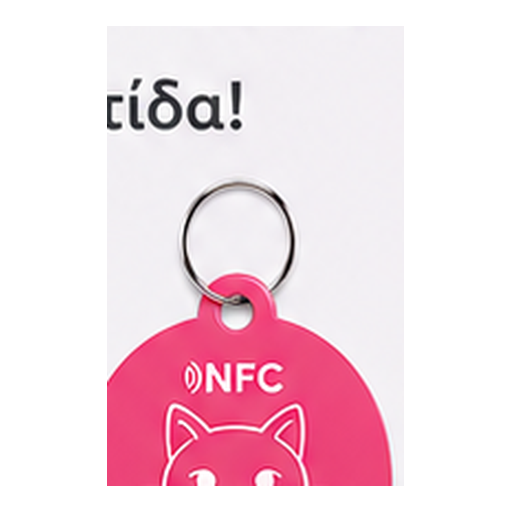
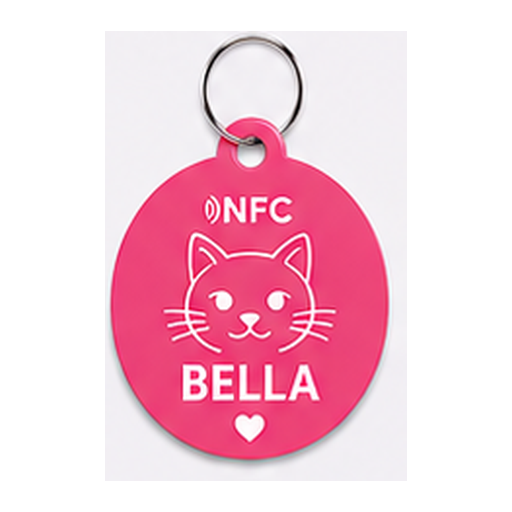
Fix NFC catalog crop alignment for all 21 tags
Replace hand-tuned crop boxes with auto-detection that finds inter-row
number labels and derives column centers plus row bands from them.
This excludes the Greek header, numbered circles, and footer while
keeping each tag's ring, design, and name fully visible.

Changed region(s): [[0.1875, 0.0625, 0.7812, 0.9688]]

diff --git a/marketing/nfc-crops/crop-nfc-catalog.py b/marketing/nfc-crops/crop-nfc-catalog.py
@@ -1,8 +1,11 @@
 #!/usr/bin/env python3
 """Crop individual NFC tag images from marketing/instagram/NFCFullpic.png."""
 
+from __future__ import annotations
+
 from pathlib import Path
 
+import numpy as np
 from PIL import Image, ImageDraw
 
 ROOT = Path(__file__).resolve().parents[1]
@@ -10,62 +13,163 @@ SRC = ROOT / 'instagram' / 'NFCFullpic.png'
 FINAL_DIR = Path(__file__).resolve().parent / 'final'
 PREVIEW_DIR = Path(__file__).resolve().parent / 'preview'
 
-GRID = {'left': 78, 'top': 248, 'right': 1176, 'bottom': 1055, 'cols': 7, 'rows': 3}
-ROW_PAD = [
-    {'top': 0.06, 'bottom': 0.16, 'x': 0.07},
-    {'top': 0.11, 'bottom': 0.17, 'x': 0.07},
-    {'top': 0.17, 'bottom': 0.14, 'x': 0.06},
-]
 OUT = 512
+BG_RGB = (231, 229, 234)
+COL_HALF_W = 72
+
+
+def _fg_mask(arr: np.ndarray, threshold: float = 18) -> np.ndarray:
+    bg = np.array(BG_RGB, dtype=float)
+    dist = np.sqrt(((arr.astype(float) - bg) ** 2).sum(axis=2))
+    return dist > threshold
+
+
+def _white_runs(row: np.ndarray, min_w: int = 12, max_w: int = 45) -> list[tuple[int, int]]:
+    white = (row[:, 0] > 245) & (row[:, 1] > 245) & (row[:, 2] > 245)
+    runs: list[tuple[int, int]] = []
+    in_run = False
+    start = 0
+    for x, is_white in enumerate(white):
+        if is_white and not in_run:
+            start = x
+            in_run = True
+        elif not is_white and in_run:
+            if min_w <= x - start <= max_w:
+                runs.append((start, x - 1))
+            in_run = False
+    if in_run and min_w <= len(white) - start <= max_w:
+        runs.append((start, len(white) - 1))
+    return runs
+
+
+def _find_number_rows(arr: np.ndarray) -> list[int]:
+    """Return y positions of the three inter-row number label bands."""
+    hits: list[int] = []
+    for y in range(480, 1060, 2):
+        if len(_white_runs(arr[y])) >= 6:
+            hits.append(y)
+
+    if not hits:
+        return [566, 822, 1052]
+
+    # Merge nearby hits into bands separated by large vertical gaps (>40px).
+    bands: list[list[int]] = [[hits[0]]]
+    for y in hits[1:]:
+        if y - bands[-1][-1] <= 40:
+            bands[-1].append(y)
+        else:
+            bands.append([y])
+
+    centers = [band[len(band) // 2] for band in bands[:3]]
+    while len(centers) < 3:
+        centers.append(centers[-1] + 256)
+    return centers[:3]
+
+
+def _column_centers(arr: np.ndarray, number_row_y: int) -> list[int]:
+    runs = _white_runs(arr[number_row_y])
+    if len(runs) >= 7:
+        return [((a + b) // 2) for a, b in runs[:7]]
+
+    w = arr.shape[1]
+    return [int(w * (c + 0.5) / 7) for c in range(7)]
+
+
+def detect_tag_boxes(im: Image.Image) -> dict[int, tuple[int, int, int, int]]:
+    arr = np.array(im.convert('RGB'))
+    w, h = arr.shape[:2]
+    fg = _fg_mask(arr)
+
+    num_rows = _find_number_rows(arr)
+    col_centers = _column_centers(arr, num_rows[0])
+
+    # Vertical bands: ring row → above numbers → below numbers.
+    row_bands = [
+        (338, num_rows[0] - 30),
+        (num_rows[0] + 20, num_rows[1] - 14),
+        (num_rows[1] + 36, num_rows[2] - 27),
+    ]
+
+    boxes: dict[int, tuple[int, int, int, int]] = {}
+    for row_idx, (y0, y1) in enumerate(row_bands):
+        y0 = max(0, y0)
+        y1 = min(h - 1, y1)
+        for col, cx in enumerate(col_centers):
+            x0 = max(0, cx - COL_HALF_W)
+            x1 = min(w, cx + COL_HALF_W)
+            sub_fg = fg[y0:y1, x0:x1]
+            ys, xs = np.where(sub_fg)
+            if len(ys) == 0:
+                continue
+            tag_num = row_idx * 7 + col + 1
+            boxes[tag_num] = (
+                x0 + int(xs.min()),
+                y0 + int(ys.min()),
+                x0 + int(xs.max()),
+                y0 + int(ys.max()),
+            )
+    return boxes
+
+
+def crop_tag(im: Image.Image, box: tuple[int, int, int, int], pad: int = 6) -> Image.Image:
+    left, top, right, bottom = box
+    left = max(0, left - pad)
+    top = max(0, top - pad)
+    right = min(im.width, right + pad)
+    bottom = min(im.height, bottom + pad)
+
+    crop = im.crop((left, top, right, bottom))
+    cw, ch = crop.size
+    side = max(cw, ch)
+    scale = (OUT * 0.88) / side
+    nw, nh = max(1, int(cw * scale)), max(1, int(ch * scale))
+    resized = crop.resize((nw, nh), Image.Resampling.LANCZOS)
+
+    canvas = Image.new('RGBA', (OUT, OUT), (255, 255, 255, 255))
+    if resized.mode == 'RGBA':
+        canvas.paste(resized, ((OUT - nw) // 2, (OUT - nh) // 2), resized)
+    else:
+        canvas.paste(resized, ((OUT - nw) // 2, (OUT - nh) // 2))
+    return canvas
 
 
 def main() -> None:
     im = Image.open(SRC).convert('RGBA')
-    cell_w = (GRID['right'] - GRID['left']) / GRID['cols']
-    cell_h = (GRID['bottom'] - GRID['top']) / GRID['rows']
+    boxes = detect_tag_boxes(im)
+    if len(boxes) != 21:
+        raise SystemExit(f'Expected 21 tag boxes, found {len(boxes)}')
+
     FINAL_DIR.mkdir(parents=True, exist_ok=True)
     PREVIEW_DIR.mkdir(parents=True, exist_ok=True)
-    crops = []
 
-    for r in range(GRID['rows']):
-        pad = ROW_PAD[r]
-        for c in range(GRID['cols']):
-            idx = r * GRID['cols'] + c + 1
-            x0 = GRID['left'] + c * cell_w
-            y0 = GRID['top'] + r * cell_h
-            cx0 = int(x0 + cell_w * pad['x'])
-            cy0 = int(y0 + cell_h * pad['top'])
-            cx1 = int(x0 + cell_w * (1 - pad['x']))
-            cy1 = int(y0 + cell_h * (1 - pad['bottom']))
-            if idx in (7, 19):
-                cy1 = int(y0 + cell_h * (1 - 0.12))
-            if idx == 19:
-                cx0 = int(x0 + cell_w * 0.03)
-                cx1 = int(x0 + cell_w * 0.97)
-            crop = im.crop((cx0, cy0, cx1, cy1))
-            cw, ch = crop.size
-            scale = min((OUT * 0.90) / cw, (OUT * 0.90) / ch)
-            nw, nh = max(1, int(cw * scale)), max(1, int(ch * scale))
-            resized = crop.resize((nw, nh), Image.Resampling.LANCZOS)
-            canvas = Image.new('RGBA', (OUT, OUT), (255, 255, 255, 255))
-            canvas.paste(resized, ((OUT - nw) // 2, (OUT - nh) // 2))
-            canvas.save(FINAL_DIR / f'nfc-tag-{idx:02d}.png', optimize=True)
-            crops.append(canvas)
+    overlay = im.copy().convert('RGB')
+    draw = ImageDraw.Draw(overlay)
+    crops: list[Image.Image] = []
 
-    thumb = 180
-    sheet = Image.new('RGBA', (thumb * 7 + 40, thumb * 3 + 60), (245, 247, 250, 255))
+    for idx in range(1, 22):
+        box = boxes[idx]
+        draw.rectangle(box, outline=(34, 197, 94), width=2)
+        draw.text((box[0] + 4, box[1] + 4), str(idx), fill=(34, 197, 94))
+        out = crop_tag(im, box)
+        out.save(FINAL_DIR / f'nfc-tag-{idx:02d}.png', optimize=True)
+        crops.append(out)
+
+    overlay.save(PREVIEW_DIR / 'crop-boxes.png')
+
+    thumb = 190
+    sheet = Image.new('RGBA', (thumb * 7 + 30, thumb * 3 + 50), (248, 250, 252, 255))
     draw = ImageDraw.Draw(sheet)
-    draw.text((20, 10), 'NFC catalog crops (21 tags)', fill=(15, 23, 42, 255))
+    draw.text((16, 10), 'NFC catalog crops (21 tags)', fill=(15, 23, 42, 255))
     for i, img in enumerate(crops):
         row, col = divmod(i, 7)
         t = img.copy()
-        t.thumbnail((thumb - 8, thumb - 20), Image.Resampling.LANCZOS)
+        t.thumbnail((thumb - 6, thumb - 18), Image.Resampling.LANCZOS)
         sheet.paste(
             t,
-            (20 + col * thumb + (thumb - t.size[0]) // 2, 36 + row * thumb + (thumb - t.size[1]) // 2),
+            (15 + col * thumb + (thumb - t.size[0]) // 2, 35 + row * thumb + (thumb - t.size[1]) // 2),
             t,
         )
-        draw.text((24 + col * thumb, 36 + row * thumb + thumb - 18), str(i + 1), fill=(100, 116, 139, 255))
+        draw.text((20 + col * thumb, 35 + row * thumb + thumb - 18), str(i + 1), fill=(100, 116, 139, 255))
     sheet.save(PREVIEW_DIR / 'contact-sheet.png')
     print(f'Wrote {len(crops)} crops to {FINAL_DIR}')
 
